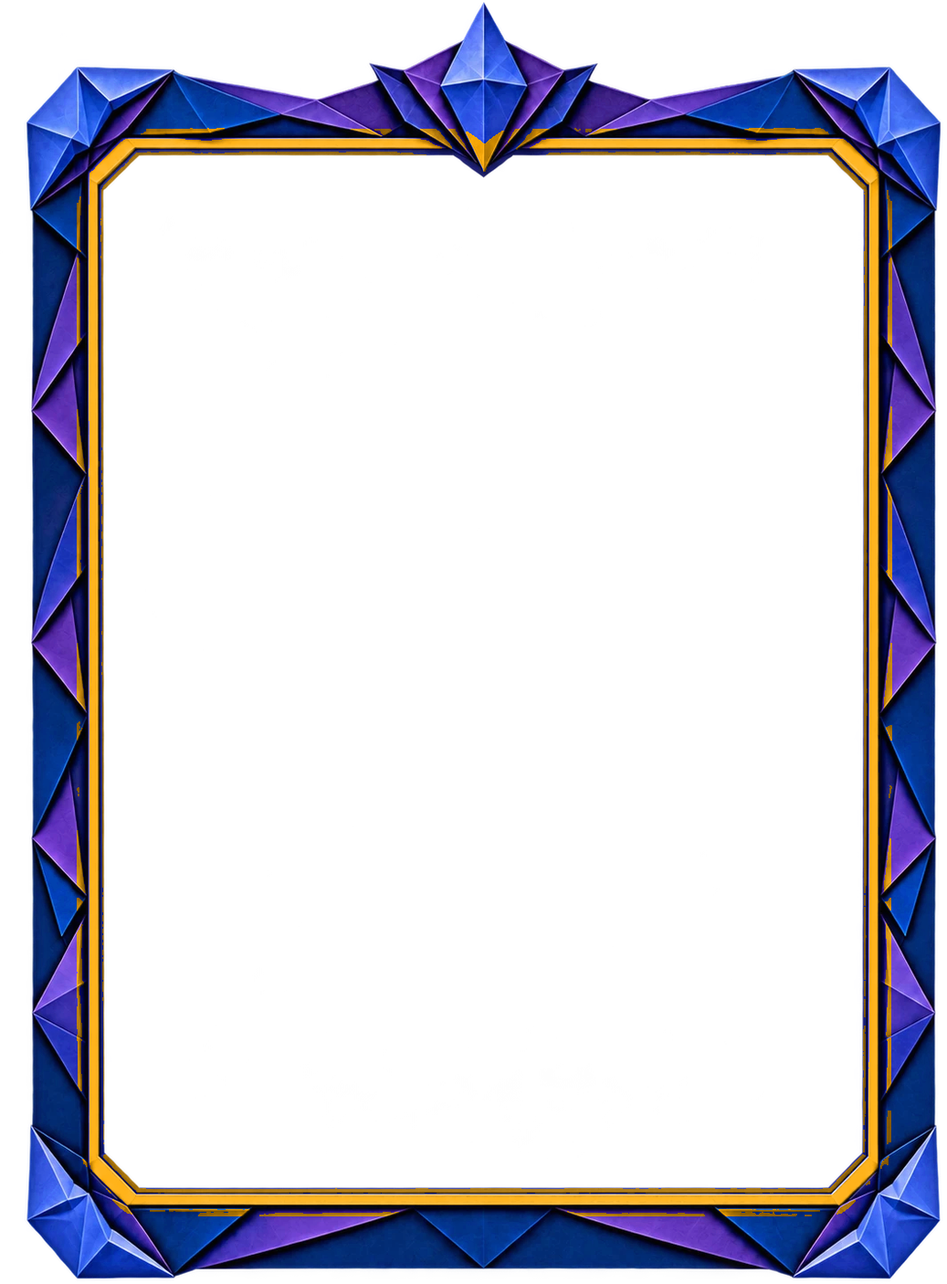
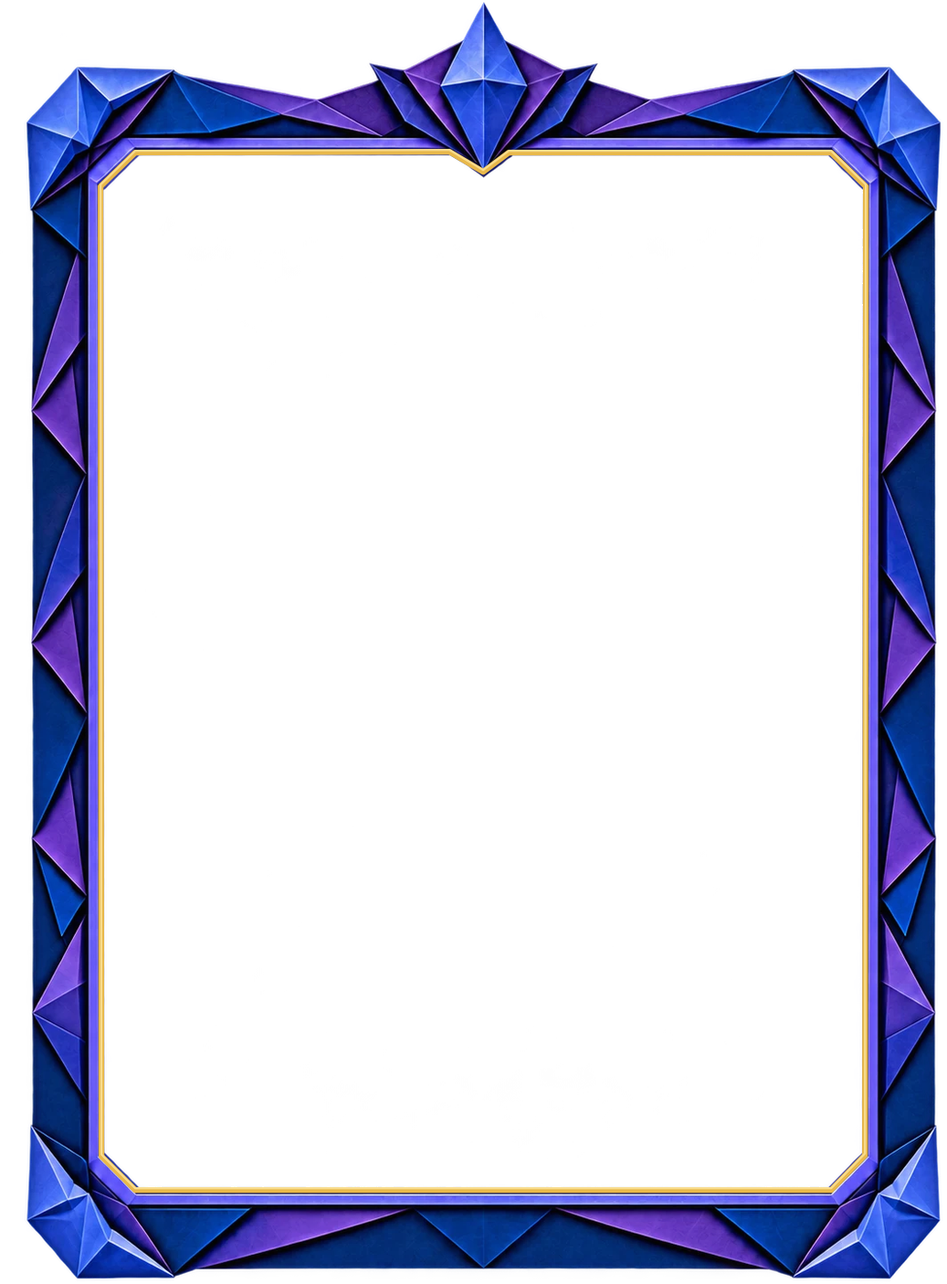
Ein Regal: Trophäen enger, Rest oben drauf; Tiere je Stufe; Stufen nach 6 Monaten und 1 Jahr; rote Kugel; Tagebuch löschen; dünnere Goldlinie; Kugeln unten rund (1.69.0)

Changed region(s): [[0.0617, 0.0917, 0.9566, 0.9481]]

diff --git a/index.html b/index.html
@@ -615,9 +615,18 @@ html:not(.zoom-ok), html:not(.zoom-ok) body, html:not(.zoom-ok) body *:not(input
 .shelf-img{ position:relative; width:min(100%, calc(100vh - var(--nav-h, 70px) - 150px), 1000px); aspect-ratio:1; background:url(img/shelf.webp) center/contain no-repeat; }
 .shelf-img + .shelf-img{ margin-top:-12%; }
 /* the dog sits a little to the side in front of the shelf, his head just above the lowest board */
-.shelf-dog{ position:absolute; right:11%; bottom:-3%; height:29%; transform:rotate(-4deg); z-index:2; pointer-events:none; filter:drop-shadow(0 8px 10px rgba(0,0,0,0.55)); }
+.shelf-animal{ position:absolute; z-index:2; pointer-events:none; filter:drop-shadow(0 8px 10px rgba(0,0,0,0.55)); }
+.shelf-dog{ right:1%; bottom:-3%; height:27%; transform:rotate(-4deg); }
+.shelf-rabbit{ left:2%; bottom:-2%; height:24%; }
+.shelf-cat{ left:31%; bottom:calc(100% - var(--roof) - 0.6%); height:16%; z-index:3; filter:drop-shadow(0 4px 6px rgba(0,0,0,0.5)); }
+.shelf-fox{ right:29%; bottom:calc(100% - var(--roof) - 0.6%); height:17%; z-index:3; filter:drop-shadow(0 4px 6px rgba(0,0,0,0.5)); }
+.shelf-roof{ justify-content:center; gap:0 34cqh; z-index:1; } /* around the ornament in the middle, the animals at the outer ends */
+.shelf-roof-side{ display:flex; align-items:flex-end; height:100%; }
+.shelf-roof .shelf-trophy{ transform:none; }
+.shelf-roof .shelf-trophy:hover, .shelf-roof .shelf-trophy:active{ transform:scale(1.06); }
 .shelf-comp{ position:absolute; display:flex; align-items:flex-end; justify-content:flex-start; gap:0 1.5cqh; padding:0 2cqh; container-type:size; overflow:visible; }
-.shelf-comp .shelf-trophy{ margin:0 2cqh; transform:translateY(2.7cqh); } /* trophies a little further forward than the books */
+.shelf-comp-tro{ justify-content:center; }
+.shelf-comp .shelf-trophy{ margin:0 0.5cqh; transform:translateY(2.7cqh); } /* trophies a little further forward than the books */
 .shelf-comp .shelf-trophy:hover, .shelf-comp .shelf-trophy:active{ transform:translateY(2.7cqh) scale(1.06); }
 .shelf-comp .shelf-trophy img{ width:100%; height:100%; object-fit:contain; object-position:bottom; display:block; filter:drop-shadow(0 1cqh 1.5cqh rgba(0,0,0,0.5)); }
 .shelf-comp .shelf-book .shelf-title{ font-size:7cqh; max-height:58%; }
@@ -700,6 +709,8 @@ html:not(.zoom-ok), html:not(.zoom-ok) body, html:not(.zoom-ok) body *:not(input
 .imp-top-text .medi-impulse-text{ margin:4px 0 0; }
 .tb-start-btn{ flex:none; display:flex; align-items:center; justify-content:center; gap:4px; padding:13px 26px; font-size:var(--fs-text); min-width:220px; }
 .tb-start-btn .ui-ico{ width:16px; height:16px; }
+.tb-del-book{ flex:none; align-self:center; display:flex; align-items:center; gap:6px; margin-top:4px; padding:8px 14px; border:none; background:none; color:#ff8a8a; font:inherit; font-size:var(--fs-text); cursor:pointer; }
+.tb-del-book .ui-ico{ width:16px; height:16px; }
 .tb-page-num-btn{ background:none; border:1px solid transparent; border-radius:10px; padding:4px 8px; cursor:pointer; font:inherit; }
 .tb-page-num-btn:active{ border-color:var(--ew-line); }
 .tb-pagepick{ position:fixed; left:50%; top:50%; transform:translate(-50%,-50%); z-index:7; width:min(360px, calc(100vw - 32px)); background:var(--ew-panel); border:1px solid var(--ew-line); border-radius:18px; padding:16px; box-shadow:0 20px 50px rgba(0,0,0,0.5); display:flex; flex-direction:column; gap:14px; }
@@ -911,7 +922,18 @@ html.lvl-1 .nav-gold, html.lvl-1 .area-ico image, html.lvl-1 .gold-ui, html.lvl-
 html.lvl-1 svg image[href*="img/icons/ico-"]{ filter:hue-rotate(215deg) saturate(0.55) brightness(1.1); }
 html.lvl-2 .gold-ui, html.lvl-2 .gold-x, html.lvl-2 .gold-arrow, html.lvl-2 .gold-gear{ filter:hue-rotate(215deg) saturate(0.55) brightness(1.1); }
 @keyframes goldShimmer{ 0%, 70%{ opacity:0; transform:translateX(-60%); } 80%{ opacity:.5; } 100%{ opacity:0; transform:translateX(60%); } }
-html.lvl-4 body::after{ content:''; position:fixed; left:0; right:0; top:var(--safe-t); height:60px; pointer-events:none; z-index:2; background:linear-gradient(100deg, transparent 30%, rgba(255,240,190,0.5) 50%, transparent 70%); animation:goldShimmer 9s ease-in-out infinite; mix-blend-mode:screen; }
+html.lvl-gold body::after{ content:''; position:fixed; left:0; right:0; top:var(--safe-t); height:60px; pointer-events:none; z-index:2; background:linear-gradient(100deg, transparent 30%, rgba(255,240,190,0.5) 50%, transparent 70%); animation:goldShimmer 9s ease-in-out infinite; mix-blend-mode:screen; }
+#lvl-fx{ position:fixed; inset:0; pointer-events:none; z-index:120; }
+.lvl-star{ position:absolute; width:22px; height:22px; margin:-11px 0 0 -11px; opacity:0; animation:lvlTwinkle 5s ease-in-out infinite;
+  background:radial-gradient(circle, #fff 0 8%, rgba(255,236,170,0.9) 14%, rgba(232,184,74,0) 45%),
+    linear-gradient(90deg, transparent 46%, rgba(255,240,190,0.95) 50%, transparent 54%), linear-gradient(0deg, transparent 46%, rgba(255,240,190,0.95) 50%, transparent 54%);
+  -webkit-mask:radial-gradient(circle, #000 30%, transparent 70%); mask:radial-gradient(circle, #000 30%, transparent 70%); }
+@keyframes lvlTwinkle{ 0%, 60%, 100%{ opacity:0; transform:scale(0.3) rotate(0deg); } 72%{ opacity:1; transform:scale(1) rotate(25deg); } 84%{ opacity:0.2; transform:scale(0.6) rotate(45deg); } }
+.lvl-star.s-tl{ left:calc(14px + 8px); top:calc(var(--safe-t, 0px) + 22px); } .lvl-star.s-tr{ right:calc(14px + 8px); left:auto; margin:-11px -11px 0 0; top:calc(var(--safe-t, 0px) + 22px); }
+.lvl-star.s-bl{ left:22px; bottom:calc(var(--nav-h, 70px) + 14px); top:auto; margin:0 0 -11px -11px; } .lvl-star.s-br{ right:22px; left:auto; bottom:calc(var(--nav-h, 70px) + 14px); top:auto; margin:0 -11px -11px 0; }
+.lvl-star.s-tm{ left:50%; top:calc(var(--safe-t, 0px) + 12px); } .lvl-star.s-bm{ left:50%; bottom:calc(var(--nav-h, 70px) + 6px); top:auto; margin:0 0 -11px -11px; }
+.lvl-star.s-ml{ left:12px; top:50%; } .lvl-star.s-mr{ right:12px; left:auto; top:50%; margin:-11px -11px 0 0; }
+@media (prefers-reduced-motion:reduce){ .lvl-star{ animation:none; opacity:0.6; } html.lvl-gold body::after{ animation:none; opacity:0; } }
 </style>
 </head>
 <body data-theme="dark">
@@ -1338,7 +1360,7 @@ html.lvl-4 body::after{ content:''; position:fixed; left:0; right:0; top:var(--s
 
 <script>
 /* Bump on every published update, so it's visible at a glance whether the newest version is loaded. */
-const APP_VERSION = '1.68.1';
+const APP_VERSION = '1.69.0';
 // Starter entries for Achtsamkeit: the samples are only used when the app has no saved data yet (a genuinely
 // fresh browser) — after that, each person's own additions and deletions are theirs alone.
 const DEFAULT_MEDITATIONEN = [
@@ -1370,7 +1392,7 @@ function ensureBuiltInMeditations(st){
   return st;
 }
 function isBuiltInMeditation(id){ return DEFAULT_MEDITATIONEN.some(m=>m.builtIn && m.id === id); }
-const APP_BUILD = '2026-10-12';
+const APP_BUILD = '2026-10-14';
 /* ================= i18n ================= */
 const I18N = {
   de:{ appName:'eWolfe', navAreas:'Bereiche', areasTitle:'Lebensbereiche', areasIntro:'Dein Lebensrad besteht aus fünf Bereichen. Zusammen zeigen sie dir, wie ausgeglichen dein Leben gerade ist.', areasText:{ gesundheit:'Deine körperliche und mentale Fitness, dein Energielevel, deine Ernährung, dein Schlaf und erholsame Pausen.', beziehungen:'Die Beziehung zu dir selbst, deine Partnerschaft, Familie, Freundschaften und sozialen Kontakte.', finanzen:'Deine finanzielle Sicherheit, deine Rücklagen, dein Konsumverhalten und wie du mit Geld umgehst.', berufung:'Erfüllung im Beruf, Karriere und persönliche Weiterentwicklung – und das Gefühl, etwas Sinnvolles zu tun, statt nur Geld zu verdienen.', sinn:'Innerer Frieden, Achtsamkeit, deine Werte und der Sinn, den du findest – die Verbindung zu dir selbst oder zu etwas Größerem.' }, areasHowTitle:'So erstellst du dein Lebensrad', areasStep1Title:'Bewerten', areasStep1:'Geh die fünf Bereiche nacheinander durch und schieb den Regler auf den Wert von 1 bis 100, der deinen aktuellen Stand am ehrlichsten beschreibt.', areasStep2Title:'Das Ergebnis', areasStep2:'Je runder dein Rad, desto ausgeglichener ist dein Leben. Zacken und Dellen zeigen dir auf einen Blick, wo du gerade Energie verlierst – und wo es sich lohnt anzusetzen.', areasStartFirst:'Erstes Lebensrad erstellen', areasContinue:'Mit vorhandenen Lebensrädern fortfahren', goalsEdit:'Ziele bearbeiten', navGoals:'Ziele', newWheel:'Neues Lebensrad erstellen', goalsTitle:'Ziele', setNotes:'Mitteilungen', noteUpdate:'Es gibt eine neue Version von eWolfe ({v}). Aktualisiere, um sie zu nutzen – deine Daten bleiben erhalten.', noteUpdateBtn:'Jetzt aktualisieren', noteSyncErr:'Die Synchronisation hat nicht geklappt.', noteSyncRetry:'Erneut versuchen', noteNone:'', wheelDelete:'Löschen', wheelDeleteConfirm:'Das Lebensrad vom {date} wirklich löschen? Das kann nicht rückgängig gemacht werden.', tblEvTitle:'Ereignisse im Überblick', tblEvNone:'Noch keine Ereignisse. Tippe im Lebensrad auf einen Bereich, um eines anzulegen.', tblEvHint:'Neueste oben. Tippe auf ein Ereignis, um den Bereich zu öffnen.', navHome:'Lebensrad', navHistory:'Verlauf', navNew:'Bewerten', navDiary:'Tagebuch', navMedi:'Achtsamkeit', accountTitle:'Konto & Einstellungen', settingsTitle:'Einstellungen', setAccount:'Konto & Cloud-Sync', setLang:'Sprache', setBackup:'Backup', setReplay:'Animation abspielen', sceneTitle:'Dein Lebensrad', sceneSub:'Aus dem eWolfe-Zeichen entsteht dein Lebensrad.',
@@ -1403,6 +1425,7 @@ const I18N = {
     diaryUploadCover:'Eigenes Coverbild', diaryPage:'Seite',
     diaryEraseFree:'Pixel-Radierer', diaryEraseObj:'Objekt-Radierer',
     diaryDeletePage:'Seite löschen', diaryDeletePageConfirm:'Diese Seite wirklich löschen? Das kann nicht rückgängig gemacht werden.',
+    diaryDeleteBook:'Tagebuch löschen', diaryDeleteBookConfirm:'Das ganze Tagebuch „{name}“ mit {n} Seiten wirklich löschen? Das kann nicht rückgängig gemacht werden – auch nicht auf deinen anderen Geräten.',
     diaryPagesOverview:'Seiten', diaryTools:'Werkzeuge', diaryPageStyle:'Seitenansicht', diaryFontChoose:'Schrift wählen',
     diaryViewMode:'Ansicht', diaryEditMode:'Bearbeiten',
     diaryDefaultType:'Bevorzugter Seitentyp für neue Seiten', diaryChangeBg:'Hintergrund ändern', diarySettings:'Einstellungen', diaryResetDefault:'Auf Standard zurücksetzen',
@@ -1451,6 +1474,7 @@ const I18N = {
     diaryUploadCover:'Custom cover image', diaryPage:'Page',
     diaryEraseFree:'Pixel eraser', diaryEraseObj:'Object eraser',
     diaryDeletePage:'Delete page', diaryDeletePageConfirm:'Really delete this page? This cannot be undone.',
+    diaryDeleteBook:'Delete diary', diaryDeleteBookConfirm:'Really delete the whole diary “{name}” with {n} pages? This cannot be undone – not on your other devices either.',
     diaryPagesOverview:'Pages', diaryTools:'Tools', diaryPageStyle:'Page style', diaryFontChoose:'Choose font',
     diaryViewMode:'View', diaryEditMode:'Write',
     diaryDefaultType:'Preferred page type for new pages', diaryChangeBg:'Change background', diarySettings:'Settings', diaryResetDefault:'Reset to default',
@@ -1499,8 +1523,12 @@ let localStorageOk = true;
 let shrinkAfterFailTried = false;
 /* ---- Levels: active days (days with an exercise, a wheel, a diary page or gratitude) – they only ever grow, so a pause
    never takes anything away. 1: start (tonal), 2: from 7 days (first gold), 3: from 30 (gold frame and buttons),
-   4: from 100 (shimmer). A new level is announced once. ---- */
+   4: from 100 (shimmer). Since 1.69.0 two more by time: 5 after half a year, 6 after a year (counted from the first
+   active day, and only once level 4 is reached) – twinkling stars in the corners of the frame and new animals at the shelf.
+   A new level is announced once. ---- */
 const LEVEL_DAYS = [0, 7, 30, 100];
+const LEVEL_MONTHS = [[5, 182], [6, 365]]; // level, days since the first active day
+let appFirstActive = 0, appActiveDayTs = [];
 const LEVEL_SEEN_KEY = 'ewolfe_level_seen';
 let appLevelCache = null;
 function appActiveDays(){
@@ -1514,16 +1542,31 @@ function appActiveDays(){
       const m = /^p(\d{12,})/.exec(p.id || ''); if(written && m) days.add(achDay(+m[1]));
     }));
   }catch(e){}
+  const ks = [...days].filter(Boolean).sort();
+  appActiveDayTs = ks.map(k=>{ const [y, m, dd] = k.split('-').map(Number); return new Date(y, m - 1, dd).getTime(); });
+  appFirstActive = 0;
+  if(ks.length){ const [y, m, dd] = ks[0].split('-').map(Number); appFirstActive = new Date(y, m - 1, dd).getTime(); }
   return days.size;
 }
 function appLevel(){
-  if(appLevelCache === null){ const n = appActiveDays(); appLevelCache = LEVEL_DAYS.filter(x=>n >= x).length; }
+  if(appLevelCache === null){
+    const n = appActiveDays(); appLevelCache = LEVEL_DAYS.filter(x=>n >= x).length;
+    if(appLevelCache === 4 && appFirstActive){ const since = (Date.now() - appFirstActive) / 864e5; LEVEL_MONTHS.forEach(([lv, dd])=>{ if(since >= dd) appLevelCache = lv; }); }
+  }
   return appLevelCache;
 }
 function applyLevel(announce){
   appLevelCache = null;
   const lv = appLevel(), html = document.documentElement;
-  [1, 2, 3, 4].forEach(i=>html.classList.toggle('lvl-' + i, i === lv));
+  [1, 2, 3, 4, 5, 6].forEach(i=>html.classList.toggle('lvl-' + i, i === lv));
+  html.classList.toggle('lvl-gold', lv >= 4); // full gold frame and shimmer from level 4 on
+  // twinkling stars in the corners of the frame (level 5), more of them along the edges (level 6)
+  let fx = document.getElementById('lvl-fx');
+  if(lv >= 5 && !fx){ fx = document.createElement('div'); fx.id = 'lvl-fx'; fx.setAttribute('aria-hidden', 'true'); document.body.appendChild(fx); }
+  if(fx){
+    const spots = lv >= 6 ? ['tl', 'tr', 'bl', 'br', 'tm', 'bm', 'ml', 'mr'] : lv >= 5 ? ['tl', 'tr', 'bl', 'br'] : [];
+    fx.innerHTML = spots.map((k, i)=>`<span class="lvl-star s-${k}" style="animation-delay:${(i * 1.3) % 5}s"></span>`).join('');
+  }
   let seen = 0; try{ seen = +(localStorage.getItem(LEVEL_SEEN_KEY) || 0); }catch(e){}
   if(!seen){ try{ localStorage.setItem(LEVEL_SEEN_KEY, String(lv)); }catch(e){} return; } // the first time: no fanfare
   if(lv > seen){
@@ -3339,6 +3382,9 @@ function delApply(st){
   Object.values((st.tagebuch && st.tagebuch.jahre) || {}).forEach(y=>{
     if(Array.isArray(y.seiten)) y.seiten = y.seiten.filter(p=>p.type==='titel' || !gone('s', p.id));
   });
+  // whole diaries deleted (since 1.69.0): 'j:' + book key ("2026", "2026/2" …)
+  const J = st.tagebuch && st.tagebuch.jahre;
+  if(J) Object.keys(J).forEach(k=>{ if(gone('j', k)) delete J[k]; });
   return st;
 }
 function delReviveAll(st){
@@ -3352,6 +3398,7 @@ function delReviveAll(st){
   (st.ereignisse || []).forEach(e=>revive('e', e.id));
   (st.meditationen || []).forEach(m=>revive('m', m.id));
   Object.values((st.tagebuch && st.tagebuch.jahre) || {}).forEach(y=>(y.seiten || []).forEach(p=>revive('s', p.id)));
+  Object.keys((st.tagebuch && st.tagebuch.jahre) || {}).forEach(k=>revive('j', k));
 }
 
 /* ---- Merge a backup INTO the current data: adds whatever is missing, never deletes or overwrites anything that is
@@ -3555,8 +3602,8 @@ Object.assign(I18N.de, { diaryLandPhone:'Tipp: Auf dem Handy ist das Hochformat 
 Object.assign(I18N.en, { diaryLandPhone:'Tip: on a phone the portrait format is more comfortable. Landscape suits tablets and computers better.' });
 Object.assign(I18N.de, {"trophyToDiary": "Ins Tagebuch", "trophyDiaryHead": "★ Trophäe vom {date}:", "trophySaved": "Die Trophäe steht jetzt in deinem Tagebuch."});
 Object.assign(I18N.en, {"trophyToDiary": "Add to diary", "trophyDiaryHead": "★ Trophy from {date}:", "trophySaved": "The trophy is now in your diary."});
-Object.assign(I18N.de, {"levelUp": ["", "Deine App erwacht: Erste goldene Akzente leuchten auf. Schön, dass du dranbleibst!", "Deine App blüht auf: Rahmen und Knöpfe glänzen jetzt in Gold.", "Deine App erstrahlt in vollem Glanz. Danke für 100 Tage mit dir selbst!"]});
-Object.assign(I18N.en, {"levelUp": ["", "Your app is awakening: the first golden accents light up. Lovely that you keep going!", "Your app is blossoming: frame and buttons now shine in gold.", "Your app shines in full splendour. Thank you for 100 days with yourself!"]});
+Object.assign(I18N.de, {"levelUp": ["", "Deine App erwacht: Erste goldene Akzente leuchten auf. Schön, dass du dranbleibst!", "Deine App blüht auf: Rahmen und Knöpfe glänzen jetzt in Gold.", "Deine App erstrahlt in vollem Glanz. Danke für 100 Tage mit dir selbst!", "Ein halbes Jahr mit dir selbst! In den Ecken funkeln jetzt Sterne, und ein Hase wohnt an deinem Regal.", "Ein ganzes Jahr! Überall funkelt es, und ein Fuchs ist bei deinem Regal eingezogen. Danke, dass du dir selbst so treu bist."]});
+Object.assign(I18N.en, {"levelUp": ["", "Your app is awakening: the first golden accents light up. Lovely that you keep going!", "Your app is blossoming: frame and buttons now shine in gold.", "Your app shines in full splendour. Thank you for 100 days with yourself!", "Half a year with yourself! Stars now twinkle in the corners, and a rabbit lives by your shelf.", "A whole year! Everything sparkles, and a fox has moved in by your shelf. Thank you for staying so true to yourself."]});
 function t(){ return I18N[state.settings.lang]; }
 
 function currentValue(area){
@@ -5013,6 +5060,8 @@ function tbEnsureYear(year){
         { id:'p'+Date.now()+'b', type:'blank', text:'', strokes:[], images:[] }
       ]
     };
+    // a new book under the key of a deleted one: it is no longer deleted (the old pages stay deleted)
+    if(state.geloescht && state.geloescht['j:' + year] && state.geloescht['j:' + year].d) delMark('j', year, false);
     saveState();
   }
   const diary = state.tagebuch.jahre[year];
@@ -5137,14 +5186,15 @@ function tbSpineHtml(key){
   </button>`;
 }
 /* The shelf is the person's paper bookshelf (img/shelf.webp, 1254×1254) with five compartments (in % of the picture):
-   the diaries stand in the top one, the trophies on the four below; more trophies → a further shelf below. Everything in a
+   the diaries stand in the top one, the trophies on the four below; if they do not fit they stand closer and smaller,
+   the rest on top of the shelf (one shelf only, since 1.69.0). Everything in a
    compartment is sized by its height (container units), so it fits at every screen size. */
 // the bottom of each compartment lies towards the back of the board's top surface, so things stand in the shelf, not at its front edge
 // each shelf picture has its own compartments (bottom = near the back edge of the board): level 1 dusty, 2 clean, 3+ with ivy
 const SHELVES = {
-  dusty:{ img:'shelf-dusty', x:[28.9, 72.8], rows:[[23.6, 36.5], [37.5, 50.1], [51.1, 62.5], [63.5, 74.4], [75.4, 86.2]] },
-  clean:{ img:'shelf-clean', x:[28.9, 72.8], rows:[[22.8, 35.8], [36.8, 49.3], [50.3, 61.9], [62.9, 73.7], [74.7, 85.6]] },
-  ivy:{ img:'shelf', x:[29.2, 72.9], rows:[[18.8, 32.2], [33.7, 46.5], [48.3, 59.7], [61.7, 72.4], [74.7, 85.4]] }
+  dusty:{ img:'shelf-dusty', roof:17.7, x:[28.9, 72.8], rows:[[23.6, 36.5], [37.5, 50.1], [51.1, 62.5], [63.5, 74.4], [75.4, 86.2]] },
+  clean:{ img:'shelf-clean', roof:16.8, x:[28.9, 72.8], rows:[[22.8, 35.8], [36.8, 49.3], [50.3, 61.9], [62.9, 73.7], [74.7, 85.6]] },
+  ivy:{ img:'shelf', roof:12.6, x:[29.2, 72.9], rows:[[18.8, 32.2], [33.7, 46.5], [48.3, 59.7], [61.7, 72.4], [74.7, 85.4]] }
 };
 const shelfNow = ()=>SHELVES[appLevel() <= 1 ? 'dusty' : appLevel() === 2 ? 'clean' : 'ivy'];
 let SHELF_X = SHELVES.ivy.x, SHELF_ROWS = SHELVES.ivy.rows;
@@ -5159,23 +5209,41 @@ function tbRenderLibrary(){
     return { w:((land ? 44 : 34) + Math.min(26, pages / 5)) * 0.62, h:land ? 64 : 86, key }; };
   const books = keys.map(spine).concat({ w:27, h:84, plus:true });
   const shown = trophyShelf();
-  const tro = shown.map(x=>{ const h = (x.kind === 'img' ? 96 : 80) * (x.scale || 0.8); return { x, h, w:h * (x.aspect || 0.9) + 4 }; });
-  // grown trophies first, the small ones after them
-  const fill = (items, gap)=>{ const rows = []; let cur = [], used = 0;
-    items.forEach(it=>{ if(cur.length && used + it.w + gap > SHELF_ROW_W - 8){ rows.push(cur); cur = []; used = 0; } cur.push(it); used += it.w + gap; });
+  const tro = shown.map(x=>{ const h = (x.kind === 'img' ? 96 : 80) * (x.scale || 0.8); return { x, h, w:h * (x.aspect || 0.9) + 1 }; });
+  const fill = (items, gap, maxW)=>{ const rows = []; let cur = [], used = 0;
+    items.forEach(it=>{ if(cur.length && used + it.w + gap > (maxW || SHELF_ROW_W - 8)){ rows.push(cur); cur = []; used = 0; } cur.push(it); used += it.w + gap; });
     if(cur.length) rows.push(cur); return rows; };
-  const bookRows = fill(books, 1.5), troRows = fill(tro, 8);
-  const rowsAll = bookRows.map(r=>({ kind:'books', r })).concat(troRows.map(r=>({ kind:'tro', r })));
-  const shelves = []; for(let i = 0; i < Math.max(1, Math.ceil(rowsAll.length / 5)); i++) shelves.push(rowsAll.slice(i * 5, i * 5 + 5));
+  const bookRows = fill(books, 1.5);
+  // one shelf only (since 1.69.0): the trophies stand closer and, if needed, a little smaller until they fit into the
+  // compartments below the books; whatever still does not fit stands on top of the shelf
+  const avail = Math.max(0, SHELF_ROWS.length - bookRows.length);
+  let k = 1, troRows = [];
+  for(;;){
+    troRows = fill(tro.map(o=>({ ...o, h:o.h * k, w:o.w * k })), 2.5, SHELF_ROW_W - 30);
+    if(troRows.length <= avail || k <= 0.66) break;
+    k -= 0.04;
+  }
+  const roof = troRows.slice(avail).flat(); troRows = troRows.slice(0, avail);
+  const rowsAll = bookRows.slice(0, SHELF_ROWS.length).map(r=>({ kind:'books', r })).concat(troRows.map(r=>({ kind:'tro', r })));
   const bookHtml = b=>b.plus ? `<button class="shelf-book shelf-new" style="width:${b.w}cqh;height:${b.h}cqh" onclick="tbNewBookAsk()" title="${d.diaryNewBook}" aria-label="${d.diaryNewBook}">${ico('plus')}</button>`
     : tbSpineHtml(b.key).replace(/style="width:\d+px;height:\d+px;/, `style="width:${b.w.toFixed(1)}cqh;height:${b.h}cqh;`);
   const troHtml = o=>`<button class="shelf-trophy" style="height:${o.h.toFixed(1)}cqh;width:${o.w.toFixed(1)}cqh" onclick="trophyShow('${o.x.id}')" title="${escapeHtml(o.x.title)}" aria-label="${escapeHtml(o.x.title)}">${trophySvg(o.x, 'sh' + o.x.id)}</button>`;
-  const shelfHtml = (rows, si)=>`<div class="shelf-img" style="background-image:url(img/${SH.img}.webp)">${si === shelves.length - 1 ? '<img class="shelf-dog" src="img/stickers/dog.webp" alt="">' : ''}${SHELF_ROWS.map(([y0, y1], i)=>{
-      const row = rows[i];
-      return `<div class="shelf-comp" style="left:${SHELF_X[0]}%;width:${SHELF_X[1] - SHELF_X[0]}%;top:${y0}%;height:${y1 - y0}%">${row ? row.r.map(it=>row.kind === 'books' ? bookHtml(it) : troHtml(it)).join('') : ''}</div>`;
+  // the animals come one by one: the dog after 2 active days, the cat on top from level 4 (100 days), the rabbit after
+  // half a year (level 5), the fox after a year (level 6). A missing picture (cat not there yet) simply stays away.
+  const lv = appLevel(), days = appActiveDays();
+  const animal = (name, cls)=>`<img class="shelf-animal ${cls}" src="img/stickers/${name}.webp" alt="" onerror="this.remove()">`;
+  const animals = (days >= 2 ? animal('dog', 'shelf-dog') : '') + (lv >= 4 ? animal('cat', 'shelf-cat') : '')
+    + (lv >= 5 ? animal('rabbit', 'shelf-rabbit') : '') + (lv >= 6 ? animal('fox', 'shelf-fox') : '');
+  const rh = SHELF_ROWS[0][1] - SHELF_ROWS[0][0];
+  const half = Math.ceil(roof.length / 2);
+  const roofHtml = roof.length ? `<div class="shelf-comp shelf-roof" style="left:${SHELF_X[0]}%;width:${SHELF_X[1] - SHELF_X[0]}%;top:${SH.roof - rh}%;height:${rh}%">
+      <div class="shelf-roof-side">${roof.slice(0, half).map(troHtml).join('')}</div><div class="shelf-roof-side right">${roof.slice(half).map(troHtml).join('')}</div></div>` : '';
+  const shelfHtml = `<div class="shelf-img" style="background-image:url(img/${SH.img}.webp);--roof:${SH.roof}%">${animals}${roofHtml}${SHELF_ROWS.map(([y0, y1], i)=>{
+      const row = rowsAll[i];
+      return `<div class="shelf-comp${row && row.kind === 'tro' ? ' shelf-comp-tro' : ''}" style="left:${SHELF_X[0]}%;width:${SHELF_X[1] - SHELF_X[0]}%;top:${y0}%;height:${y1 - y0}%">${row ? row.r.map(it=>row.kind === 'books' ? bookHtml(it) : troHtml(it)).join('') : ''}</div>`;
     }).join('')}</div>`;
   const next = trophyNext();
-  return `<div class="shelf-wrap">${shelves.map((r, i)=>shelfHtml(r, i)).join('')}</div>
+  return `<div class="shelf-wrap">${shelfHtml}</div>
     <p class="shelf-hint">${keys.length ? d.shelfHint : ''}${next ? `<br>${d.trophyNextLabel} <strong>${escapeHtml(next.title)}</strong> (${next.have}/${next.need})` : ''}</p>
     ${tbCoverSettingsHtml()}`;
 }
@@ -5257,19 +5325,24 @@ function trophyDefs(){
     list:ev.streakAt[n] ? [ev.streakAt[n]] : [], have:()=>Math.min(n, streakMax),
     title:L(n + ' Tage in Folge', n + ' days in a row'), desc:L('Du hast an ' + n + ' Tagen hintereinander geübt.', 'You practised on ' + n + ' days in a row.') }));
   // glowing orbs: wheels (violet), goals (gold), diary pages (blue), gratitude (pink), growth (green), all areas (rainbow)
-  grow('wheel', ev.wheels, [[1, 'orb-purple', 0.55], [5, 'orb-purple', 0.7], [10, 'orb-purple', 0.85]], 0.85,
+  grow('wheel', ev.wheels, [[1, 'orb-purple', 0.55], [5, 'orb-purple', 0.7], [10, 'orb-purple', 0.85]], 0.83,
     n=>n === 1 ? L('Erstes Lebensrad', 'First wheel of life') : L(n + ' Lebensräder', n + ' wheels of life'),
     n=>n === 1 ? L('Du hast dein erstes Lebensrad erstellt.', 'You created your first wheel of life.') : L('Du hast ' + n + ' Lebensräder erstellt.', 'You created ' + n + ' wheels of life.'));
   grow('goal', ev.goals, [[1, 'orb-gold', 0.55], [5, 'orb-gold', 0.7], [10, 'orb-gold', 0.85]], 0.82,
     n=>n === 1 ? L('Erstes Ziel erreicht', 'First goal reached') : L(n + ' Ziele erreicht', n + ' goals reached'),
     n=>L(n === 1 ? 'Du hast dein erstes Ziel erreicht.' : 'Du hast ' + n + ' Ziele erreicht.', n === 1 ? 'You reached your first goal.' : 'You reached ' + n + ' goals.'));
-  grow('page', ev.pages, [[1, 'orb-blue', 0.5], [10, 'orb-blue', 0.62], [50, 'orb-blue', 0.74], [100, 'orb-blue', 0.86]], 0.85,
+  grow('page', ev.pages, [[1, 'orb-blue', 0.5], [10, 'orb-blue', 0.62], [50, 'orb-blue', 0.74], [100, 'orb-blue', 0.86]], 0.81,
     n=>n === 1 ? L('Erste Tagebuchseite', 'First diary page') : L(n + ' Tagebuchseiten', n + ' diary pages'),
     n=>L(n === 1 ? 'Du hast die erste Seite in dein Tagebuch geschrieben.' : 'Du hast ' + n + ' Seiten in dein Tagebuch geschrieben.', n === 1 ? 'You wrote the first page of your diary.' : 'You wrote ' + n + ' diary pages.'));
   grow('grat', ev.grat, [[1, 'trophy-hearts-1', 0.5], [7, 'trophy-hearts-2', 0.75], [30, 'trophy-hearts-3', 1]], 0.66,
     n=>n === 1 ? L('Erste Dankbarkeit', 'First gratitude') : L(n + ' Abende Dankbarkeit', n + ' evenings of gratitude'),
     n=>L(n === 1 ? 'Du hast zum ersten Mal aufgeschrieben, wofür du dankbar bist.' : 'An ' + n + ' Abenden hast du aufgeschrieben, wofür du dankbar bist.', n === 1 ? 'You wrote down for the first time what you are grateful for.' : 'On ' + n + ' evenings you wrote down what you are grateful for.'));
-  out.push({ id:'up10', kind:'img', img:'orb-green', scale:0.7, aspect:0.83, need:1, list:ev.improved10 ? [ev.improved10] : [], title:L('Plus 10', 'Plus 10'), desc:L('Ein Lebensbereich ist um 10 Punkte gewachsen.', 'One area of life grew by 10 points.') });
+  // loyalty (since 1.69.0): the red orb grows with the active days, between the levels (7 / 30 / 100 days, ½ year, 1 year)
+  appActiveDays();
+  grow('loyal', appActiveDayTs.slice(), [[60, 'orb-pink', 0.55], [150, 'orb-pink', 0.7], [250, 'orb-pink', 0.85]], 0.85,
+    n=>L(n + ' aktive Tage', n + ' active days'),
+    n=>L('An ' + n + ' Tagen hast du dir Zeit für dich genommen – deine Treue zu dir selbst leuchtet.', 'On ' + n + ' days you took time for yourself – your loyalty to yourself shines.'));
+  out.push({ id:'up10', kind:'img', img:'orb-green', scale:0.7, aspect:0.81, need:1, list:ev.improved10 ? [ev.improved10] : [], title:L('Plus 10', 'Plus 10'), desc:L('Ein Lebensbereich ist um 10 Punkte gewachsen.', 'One area of life grew by 10 points.') });
   out.push({ id:'upall', kind:'img', img:'orb-rainbow', scale:0.9, aspect:0.87, need:1, list:ev.improvedAll ? [ev.improvedAll] : [], title:L('Rundum gewachsen', 'Grown all around'), desc:L('Alle fünf Lebensbereiche haben sich verbessert.', 'All five areas of life have improved.') });
   return out;
 }
@@ -5421,7 +5494,25 @@ function tbCoverSettingsHtml(){
       <span class="tb-row-label">${d.diaryDefaultType}</span>
       <div class="tb-chip-row">${typeChips}</div>
       <button class="primary-btn tb-start-btn" onclick="tbCoverSettingsOpen=false; tbOpenFirstPage();">${ico('pencil')}${d.diaryStartWriting}</button>
+      ${state.tagebuch.jahre[tbYear] ? `<button class="tb-del-book" onclick="tbDeleteBook('${tbYear}')">${ico('trash')}${d.diaryDeleteBook}</button>` : ''}
     </div>`;
+}
+// delete a whole diary (since 1.69.0), only after asking; the deletion travels to the other devices
+async function tbDeleteBook(key){
+  const d = t(), diary = state.tagebuch.jahre[key];
+  if(!diary) return;
+  const n = diary.seiten.filter(p=>p.type !== 'titel').length;
+  const name = (diary.cover && diary.cover.title) || d.diaryTitle;
+  if(!(await uiConfirm(d.diaryDeleteBookConfirm.replace('{name}', name + ' ' + key).replace('{n}', n)))) return;
+  diary.seiten.forEach(p=>{ if(p.type !== 'titel') delMark('s', p.id); });
+  delMark('j', key);
+  delete state.tagebuch.jahre[key];
+  tbCoverSettingsOpen = false;
+  tbYear = tbBookKeys().length ? tbLatestBook(tbCurrentYearStr()) : null;
+  if(tbYear && !state.tagebuch.jahre[tbYear]) tbYear = tbBookKeys().slice(-1)[0];
+  tbView = 'library';
+  saveState();
+  tbRender();
 }
 function tbSetCoverColor(col){ const c=tbEnsureYear(tbYear).cover; c.color=col; c.image=null; c.colorChosen=true; saveState(); tbRender(); }
 function tbSetCoverMaterial(m){ tbEnsureYear(tbYear).cover.material=m; saveState(); tbRender(); }

diff --git a/CLAUDE.md b/CLAUDE.md
@@ -124,7 +124,7 @@ Der Nutzer ist kein Entwickler. Erkläre Schritte einfach und auf Deutsch.
 - Veröffentlicht über **GitHub Pages** aus diesem Repository (Branch `main`, Ordner `/`):
   https://k9vk58y99f-max.github.io/k9vk58y99f-max.github.io-ewolfe-app-/
 - Ein Commit + Push auf `main` ist die Veröffentlichung; nach 1–2 Minuten ist es live.
-- Bei jeder Änderung `APP_VERSION` erhöhen (aktuell `1.68.1`) und `APP_BUILD` anpassen.
+- Bei jeder Änderung `APP_VERSION` erhöhen (aktuell `1.69.0`) und `APP_BUILD` anpassen.
   Die Version steht unten in der App.
 
 ## Neu seit 1.55.0 (iPad, Wischen, Tagebuch, Sticker, Impulskarten)
@@ -253,6 +253,24 @@ Bisher wurde mit Playwright (Chromium, headless) getestet: App als `file://` lad
 Intro-Animation abwarten (danach erscheint die Anmelde-Sperre, solange keine Sitzung besteht), dann über `page.evaluate` und Klicks prüfen. Für den Sync wurde der
 Supabase-Server mit `context.route(...)` nachgebaut (Konten, Revisionen, abgelaufene Tokens).
 Vor jedem Push: Syntax prüfen und die betroffenen Abläufe testen. Daten des Nutzers nie riskieren.
+
+## Wachsender Glanz, Tiere, Tagebuch löschen (seit 1.68.0 / 1.69.0)
+- Stufen nach aktiven Tagen (Tage mit Übung, Lebensrad, Tagebuchseite oder Dankbarkeit; `appActiveDays()`, `LEVEL_DAYS`
+  = 0/7/30/100), dazu seit 1.69.0 zwei Zeit-Stufen (`LEVEL_MONTHS`): 5 nach einem halben Jahr, 6 nach einem Jahr ab dem
+  ersten aktiven Tag (`appFirstActive`), nur wenn Stufe 4 erreicht ist. Klassen `html.lvl-1…6`, ab 4 zusätzlich `lvl-gold`.
+  1: tonale Rahmen/Knöpfe, Lavendel, staubiges Regal; 2: goldene Überschriften/Leiste, sauberes Regal; 3: goldene Knöpfe,
+  tonaler Rahmen mit dünner goldener Innenlinie (`img/frame-*-mid.png`), Efeu-Regal; 4: ganzer Goldrahmen + Schimmer;
+  5: funkelnde Sterne in den Rahmenecken (`#lvl-fx`, `.lvl-star`); 6: mehr Sterne an den Rändern. Nichts wird je
+  weggenommen; neue Stufe einmal angesagt (`levelUp`, Merker `ewolfe_level_seen`).
+- Regal (seit 1.69.0): nur noch ein Regal. Trophäen stehen enger und werden notfalls etwas kleiner (bis 66 %), bis sie in
+  die Fächer passen; der Rest steht oben auf dem Regal (`.shelf-roof`, Dachhöhe `roof` je Bild in `SHELVES`).
+- Tiere am Regal (`.shelf-animal`): Hund ab 2 aktiven Tagen, Katze oben links ab Stufe 4 (`img/stickers/cat.webp`, fehlt
+  noch – solange die Datei fehlt, bleibt sie einfach weg), Hase ab Stufe 5, Fuchs oben rechts ab Stufe 6.
+- Rote Kugel (`orb-pink`, Gruppe `loyal`): 60/150/250 aktive Tage. Kugeln seit 1.69.0 unten rund ausgeschnitten.
+- Tagebuch löschen (seit 1.69.0): in den Tagebuch-Einstellungen „Tagebuch löschen“ (`tbDeleteBook`, mit Rückfrage).
+  Grabstein `'j:' + Schlüssel` in `state.geloescht` plus `'s:'` für jede Seite; `delApply` entfernt das Buch, ein neues
+  Buch mit gleichem Schlüssel hebt den Buch-Grabstein auf (`tbEnsureYear`), die alten Seiten bleiben gelöscht.
+  Seiten löschen fragt schon immer nach (`tbDeletePage`).
 
 ## Offene Wünsche
 - Eigenen SMTP-Dienst in Supabase eintragen, damit Passwort-Mails alle Nutzer erreichen
